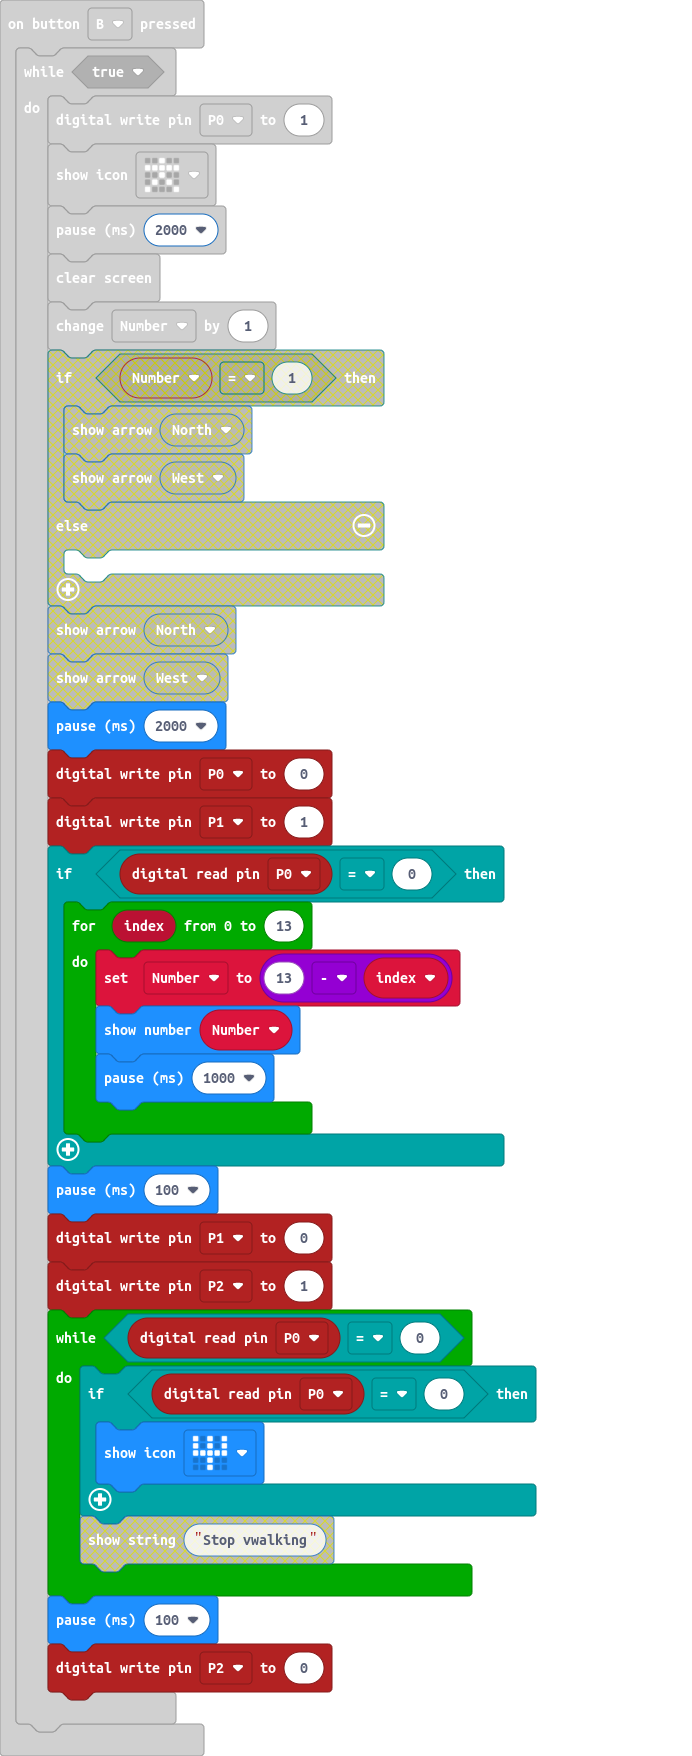
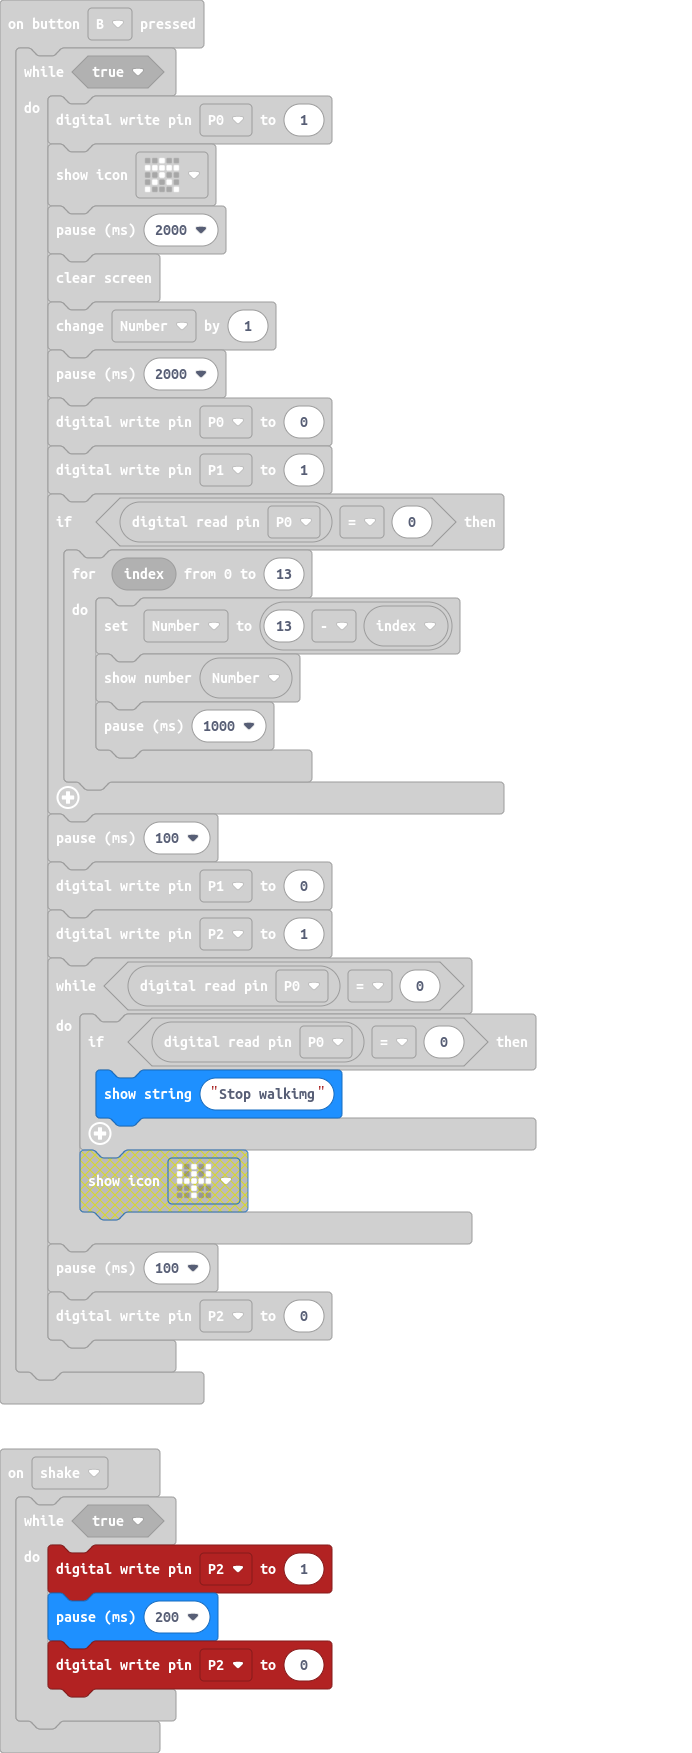
Update main.blocks, main.ts

diff --git a/main.ts b/main.ts
@@ -39,7 +39,7 @@ input.onButtonPressed(Button.B, function () {
         pins.digitalWritePin(DigitalPin.P2, 1)
         while (pins.digitalReadPin(DigitalPin.P0) == 0) {
             if (pins.digitalReadPin(DigitalPin.P0) == 0) {
-                basic.showIcon(IconNames.Pitchfork)
+                basic.showString("Stop walkimg")
             }
         }
         basic.pause(100)
@@ -48,7 +48,9 @@ input.onButtonPressed(Button.B, function () {
 })
 input.onGesture(Gesture.Shake, function () {
     while (true) {
-    	
+        pins.digitalWritePin(DigitalPin.P2, 1)
+        basic.pause(200)
+        pins.digitalWritePin(DigitalPin.P2, 0)
     }
 })
 let Number2 = 0
